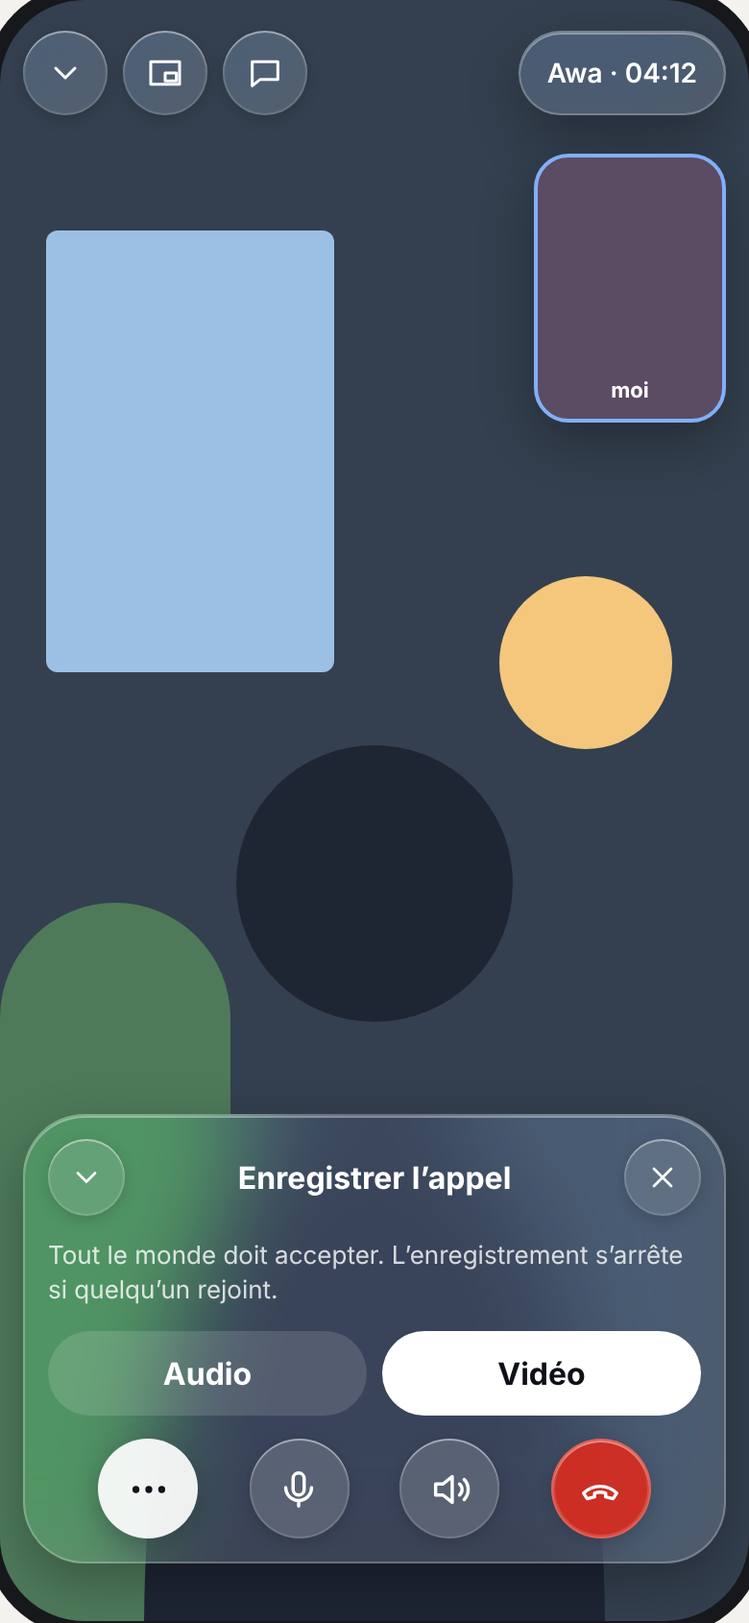
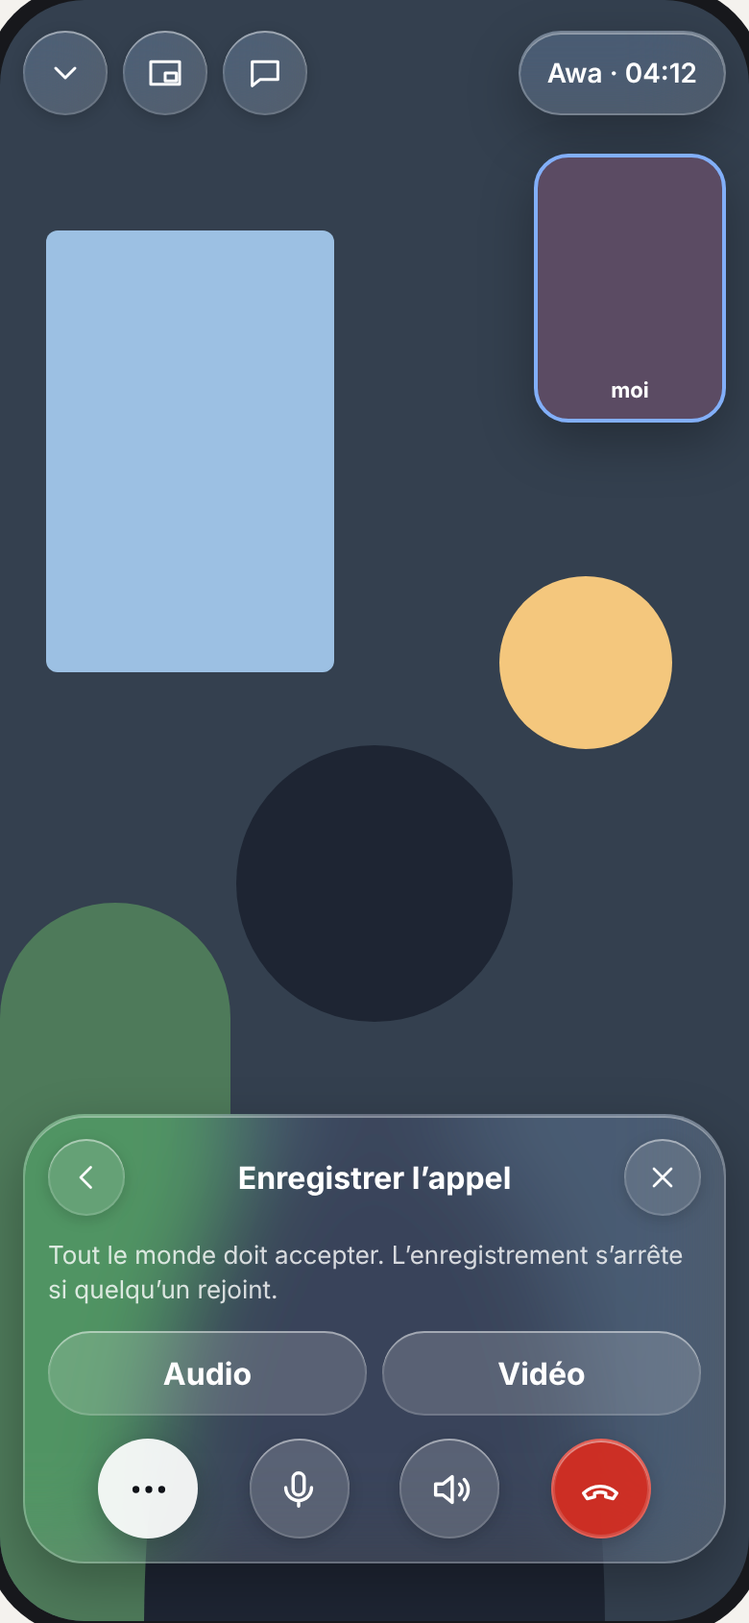
docs(appels): la planche écrit les décisions de la famille 2 (G1–G4, P8b)
- G3 : Retour porte le chevron ‹ de P8/P8b, titre « Enregistrer l'appel »
  au centre, deux puces égales Audio · Vidéo qui lancent la demande ;
  loi 14 : Retour rend le menu, Fermer et (…) rendent la pilule de base.
- P8b : sous-titres dans un verre sans rangée au-dessus du panneau, bandeau
  d'Awa comme en P8 ; lois 14 et 17 : panneau en verre séparé, barre qui
  perd ses puces et se resserre, fondu + montée ≈ 200 ms, Reduce Motion ⇒
  fondu, retoucher Réglages rend looks et puces.
- G1/G2 (loi 11) : un seul verre se resserre, le cycle rend l'état d'avant,
  le journal se range avec la pilule, la colonne W1 reste.
- G4 (loi 4) : anneau et halo à la couleur de la personne seulement à la
  parole, aucun anneau au repos.
- Loi 14 : « Participants » devient « Ajouter » (feuille des personnes).
- Tableau des plateformes : lignes de la famille 2 relevées le 2026-11-11 ;
  PR du chantier #17329 marquées « prête » corrigées en « fusionné ».

Refs #17329

Claude-Session: https://claude.ai/code/session_015SWXf7WvNYyQX5o6rHgc69

Changed region(s): [[0.4923, 0.8, 0.9538, 0.8923], [0.0923, 0.7077, 0.1231, 0.7385]]

diff --git a/docs/product/appels-vue-finale/planche.html b/docs/product/appels-vue-finale/planche.html
@@ -140,7 +140,7 @@ const S=[
 {id:'P6',t:'Journal pendant l’appel',d:'« Journal » ouvre TOUT l’appel, rien de tronqué : qui (sa couleur), quand, la phrase servie, l’original sous la phrase qu’on touche, dans le même ordre que la bande. Il s’ouvre DANS la pilule, à la place des sous-titres, et défile librement ; « Revenir au direct » quand on a remonté. La bascule Traduit · Original de sa tête fait passer TOUT le journal dans l’autre texte ; la bande des sous-titres reste dans ma langue. Ma vignette garde sa place en haut à droite.',html:phone(scene()+head('Awa · 04:12')+self()+journalPill(J,{live:true}))},
 {id:'P7',t:'Micro coupé',d:'Le micro barré passe en disque blanc. Micro coupé = ma parole n’est plus transcrite (#8475).',html:phone(scene()+head('Awa · 04:12')+self()+pill({micOff:true}))},
 {id:'P8',t:'Effets de ma caméra',d:'« Effets » emprunte au composer (#17406). MA caméra passe en plein écran, les autres en bandeau. Les sous-titres restent, au-dessus des looks, dans un verre sans la rangée de base (loi 11). Les looks (filtres, cadres, effets) se choisissent en surimpression sur l’image : la case au centre est choisie, à pleine taille, les voisines plus petites. La barre du bas grandit par morphisme et porte les puces qui trient les looks (Tout · Filtres · Cadres · Visage · Paysage · Voix…) : elles défilent à l’horizontale sans coupure, en s’effaçant toujours en fondu à gauche comme à droite (#17409). Le look choisi s’applique tout de suite : il n’y a pas de « Valider ». La rangée de base parle la langue du composer : ‹ revient à l’appel, Réglages (l’engrenage, légendé, distinct du glyphe d’Effets) ouvre P8b, et (+) ajoute un look par-dessus le précédent pour les cumuler. Un mode libère l’écran : l’en-tête se masque (#8578).',html:phone(`<div style="position:absolute;inset:0;background:#445B4F"></div><svg style="position:absolute;left:75px;top:260px" width="240" height="600" viewBox="0 0 240 600" aria-hidden="true"><circle cx="120" cy="110" r="72" fill="#2c3b33"/><path d="M0 600c0-200 50-330 120-330s120 130 120 330z" fill="#2c3b33"/></svg>`+`<div style="position:absolute;right:12px;top:76px;display:flex;flex-direction:column;gap:6px"><div class="tile" style="width:64px;height:86px;padding:4px;background:#6B5A48;border-color:var(--awa)"><span class="name glass" style="font-size:10px;padding:2px 6px">Awa</span></div></div><div style="position:absolute;left:0;right:0;bottom:176px;display:flex;justify-content:center;align-items:center;gap:12px">${['Aucun','Doré','Lissage','Polaroid','Ange'].map((n,i)=>`<div style="display:flex;flex-direction:column;align-items:center;gap:6px;transform:scale(${i===2?1:.78});opacity:${i===2?1:.6}"><span style="width:64px;height:64px;border-radius:${i===3?'12px':'50%'};background:${['#445B4F','#b89a5a','#7a8f84','#e9e4d8','#c9b37a'][i]};${i===2?'box-shadow:0 0 0 3px #fff;':''}"></span><span style="font-size:11px;font-weight:600">${n}</span></div>`).join('')}</div><div class="glass" style="position:absolute;left:12px;right:12px;bottom:30px;border-radius:32px;padding:10px 8px 8px;display:flex;flex-direction:column;gap:8px"><div role="group" aria-label="Trier les looks" style="overflow:hidden;-webkit-mask-image:linear-gradient(90deg,transparent 0,#000 34px,#000 calc(100% - 34px),transparent 100%);mask-image:linear-gradient(90deg,transparent 0,#000 34px,#000 calc(100% - 34px),transparent 100%)"><div style="display:flex;gap:6px;width:max-content;transform:translateX(-46px)">${['Tout','Filtres','Cadres','Visage','Paysage','Voix','Ambiances'].map((n,i)=>`<span style="height:32px;padding:0 13px;border-radius:16px;font-size:12px;font-weight:700;display:flex;align-items:center;flex-shrink:0;${i===1?'background:#fff;color:#0E1117':'background:rgba(255,255,255,.16);box-shadow:inset 0 0 0 1px rgba(255,255,255,.14)'}">${n}</span>`).join('')}</div></div><div style="height:1px;background:rgba(255,255,255,.18)"></div>${effectsRow(false)}</div>`+caps([T('awa','Ce filtre te va bien, garde-le !',{tag:'EN → FR'})],{left:12,right:12,bottom:286,bare:true}))},
-{id:'P8b',t:'Effets : réglages',d:'« Réglages » remplace la bande de looks par Luminosité et Flou du fond ; son engrenage passe en disque blanc, ‹ et (+) restent.',html:phone(`<div style="position:absolute;inset:0;background:#445B4F"></div><svg style="position:absolute;left:75px;top:260px" width="240" height="600" viewBox="0 0 240 600" aria-hidden="true"><circle cx="120" cy="110" r="72" fill="#2c3b33"/><path d="M0 600c0-200 50-330 120-330s120 130 120 330z" fill="#2c3b33"/></svg>`+`<div class="glass deep" style="position:absolute;left:16px;right:16px;bottom:118px;border-radius:24px;padding:14px 16px;display:flex;flex-direction:column;gap:14px"><label style="display:flex;flex-direction:column;gap:8px;font-size:13px;font-weight:600">Luminosité<span style="height:6px;border-radius:3px;background:linear-gradient(90deg,#fff 62%,rgba(255,255,255,.25) 62%)"></span></label><label style="display:flex;justify-content:space-between;align-items:center;font-size:13px;font-weight:600">Flou du fond<span style="width:50px;height:30px;border-radius:15px;background:#34C759;position:relative"><i style="position:absolute;right:3px;top:3px;width:24px;height:24px;border-radius:50%;background:#fff"></i></span></label></div><div class="glass" style="position:absolute;left:16px;right:16px;bottom:30px;border-radius:32px;padding:6px 8px">${effectsRow(true)}</div>`)},
+{id:'P8b',t:'Effets : réglages',d:'« Réglages » pose, à la place de la bande de looks, un verre séparé Luminosité · Flou du fond au-dessus de la barre. La barre perd ses puces et se resserre par morphisme sur ‹ · Réglages · (+), l’engrenage en disque blanc. Looks et puces partent en fondu pendant que le panneau monte depuis la barre (≈ 200 ms) ; Réduire les animations ⇒ fondu seul. Retoucher Réglages rend looks et puces par le chemin inverse. Les sous-titres restent au-dessus, dans un verre sans rangée (loi 11), et le bandeau des autres comme en P8.',html:phone(`<div style="position:absolute;inset:0;background:#445B4F"></div><svg style="position:absolute;left:75px;top:260px" width="240" height="600" viewBox="0 0 240 600" aria-hidden="true"><circle cx="120" cy="110" r="72" fill="#2c3b33"/><path d="M0 600c0-200 50-330 120-330s120 130 120 330z" fill="#2c3b33"/></svg>`+`<div style="position:absolute;right:12px;top:76px;display:flex;flex-direction:column;gap:6px"><div class="tile" style="width:64px;height:86px;padding:4px;background:#6B5A48;border-color:var(--awa)"><span class="name glass" style="font-size:10px;padding:2px 6px">Awa</span></div></div>`+`<div class="glass deep" role="group" aria-label="Réglages de mon image" style="position:absolute;left:16px;right:16px;bottom:118px;border-radius:24px;padding:14px 16px;display:flex;flex-direction:column;gap:14px"><label style="display:flex;flex-direction:column;gap:8px;font-size:13px;font-weight:600">Luminosité<span style="height:6px;border-radius:3px;background:linear-gradient(90deg,#fff 62%,rgba(255,255,255,.25) 62%)"></span></label><label style="display:flex;justify-content:space-between;align-items:center;font-size:13px;font-weight:600">Flou du fond<span style="width:50px;height:30px;border-radius:15px;background:#34C759;position:relative"><i style="position:absolute;right:3px;top:3px;width:24px;height:24px;border-radius:50%;background:#fff"></i></span></label></div><div class="glass" style="position:absolute;left:16px;right:16px;bottom:30px;border-radius:32px;padding:6px 8px">${effectsRow(true)}</div>`+caps([T('awa','Ce filtre te va bien, garde-le !',{tag:'EN → FR'})],{left:12,right:12,bottom:252,bare:true}))},
 ]},
 {h:'Duo audio, portrait',lead:'Sans vidéo, la personne au centre ; mêmes rails, même pilule. « Caméra » dans le rail gauche bascule l’appel en vidéo.',b:[
 {id:'P9',t:'Audio, repos',d:'Avatar, nom, durée au centre ; l’en-tête ne porte à droite que l’indicateur réseau, et seulement s’il se dégrade. L’anneau de l’avatar prend la couleur de la personne quand elle parle.',html:phone(head('')+`<div class="person" style="left:0;right:0;top:220px"><span class="av" style="width:132px;height:132px;background:#B45309;font-size:40px;box-shadow:0 0 0 4px var(--awa),0 0 30px var(--awa)">AD</span><b style="font-size:22px">Awa Diallo</b><span style="color:rgba(255,255,255,.75)">En train de parler</span></div>`+pill(),'#1B2130')},
@@ -157,10 +157,10 @@ const S=[
 {id:'P16',t:'Je partage mon écran',d:'Un bandeau de verre rouge pâle dit « Vous partagez votre écran » avec Arrêter ; le reste ne change pas.',html:phone(scene()+head('Awa · 04:12')+`<div class="glass" style="position:absolute;left:12px;right:12px;top:72px;height:52px;border-radius:26px;display:flex;align-items:center;justify-content:space-between;padding:0 6px 0 16px;background:rgba(217,45,32,.35)"><span style="font-size:14px;font-weight:600;display:flex;gap:8px;align-items:center">${ic('screen',16,'#fff')}Vous partagez votre écran</span><span style="height:40px;padding:0 14px;border-radius:20px;background:#fff;color:#B42318;font-size:13px;font-weight:700;display:flex;align-items:center">Arrêter</span></div>`+self({top:136})+pill())}
 ]},
 {h:'Gestes et contrôles',lead:'Un toucher n’importe où sur l’image cache les contrôles ET réduit ma vignette ; un autre toucher fait revenir partout les contrôles et rend ma vignette à sa taille. Pas de minuterie. Les sous-titres et une demande d’accord ne se cachent jamais.',b:[
-{id:'G1',t:'Un toucher : tout se range',d:'En-tête, pilule et rails disparaissent ; ma vignette passe à sa petite taille ; seuls restent l’image et les sous-titres, dans un verre sans la rangée de la pilule.',html:phone(scene()+self({w:72,h:100,top:60})+caps([T('awa','Tu m’entends bien ?',{tag:'EN → FR'})],{bottom:30,bare:true}))},
-{id:'G2',t:'Un autre toucher : tout revient',d:'Les contrôles reviennent partout, ma vignette reprend sa taille. Un bouton touché pendant le fondu répond quand même. Actions ouvertes : les sous-titres se rangent.',html:phone(scene()+head('Awa · 04:12')+self()+rails({caps:true})+pill({open:true}))},
-{id:'G3',t:'Options en surimpression',d:'Une option à réglages (Enregistrer, Réagir) s’ouvre DANS la pilule, qui grandit vers le haut avec ‹ Retour et Fermer ; « Participants » s’ouvre en feuille.',html:phone(scene()+head('Awa · 04:12')+self()+`<div class="glass" style="position:absolute;left:12px;right:12px;bottom:30px;border-radius:32px;padding:12px;display:flex;flex-direction:column;gap:12px"><div style="display:flex;justify-content:space-between;align-items:center">${B('down','Retour','soft',40)}<b>Enregistrer l’appel</b>${B('end','Fermer','soft',40).replace(P.end,'M6 6l12 12M18 6L6 18')}</div><p style="margin:0;font-size:13px;color:rgba(255,255,255,.8)">Tout le monde doit accepter. L’enregistrement s’arrête si quelqu’un rejoint.</p><div style="display:flex;gap:8px"><span style="flex:1;height:44px;border-radius:22px;background:rgba(255,255,255,.14);display:flex;align-items:center;justify-content:center;font-weight:700">Audio</span><span style="flex:1;height:44px;border-radius:22px;background:#fff;color:#0E1117;display:flex;align-items:center;justify-content:center;font-weight:700">Vidéo</span></div><div style="display:flex;justify-content:space-evenly">${pillBtns(true)}</div></div>`)},
-{id:'G4',t:'Caméra coupée',d:'Fond noir, avatar, « Caméra désactivée ». Allumer ma caméra en audio bascule l’appel en vidéo, sans demande.',html:phone(head('Awa · 04:12')+`<div class="person" style="left:0;right:0;top:260px"><span class="av" style="width:96px;height:96px;background:#B45309;font-size:30px;box-shadow:0 0 0 3px var(--awa)">AD</span><span style="display:flex;gap:6px;align-items:center;color:rgba(255,255,255,.8)">${ic('video',16,'#fff')}Caméra désactivée</span></div>`+self()+pill(),'#000')}
+{id:'G1',t:'Un toucher : tout se range',d:'En-tête, pilule et rails sortent vers leurs bords ; ma vignette passe à sa petite taille ; seuls restent l’image et les sous-titres, dans le MÊME verre, qui se resserre en perdant la rangée de la pilule : il n’y a jamais de second verre. Un journal ouvert se range avec la pilule.',html:phone(scene()+self({w:72,h:100,top:60})+caps([T('awa','Tu m’entends bien ?',{tag:'EN → FR'})],{bottom:30,bare:true}))},
+{id:'G2',t:'Un autre toucher : tout revient',d:'Les contrôles reviennent partout, par le chemin inverse, dans l’état d’avant : ici (…) était ouvert, il revient ouvert, et les sous-titres qu’il rangeait restent rangés. Ma vignette reprend sa taille. Un bouton touché pendant le fondu répond quand même.',html:phone(scene()+head('Awa · 04:12')+self()+rails({caps:true})+pill({open:true}))},
+{id:'G3',t:'Options en surimpression',d:'Une option à réglages (Enregistrer, Réagir) s’ouvre DANS la pilule, qui grandit vers le haut avec ‹ Retour et Fermer. ‹ Retour rend le menu (les actions de (…) ouvertes) ; Fermer, comme (…) touché pendant l’option, rend la pilule de base. Audio et Vidéo sont deux puces égales qui lancent aussitôt la demande d’accord (R2) et referment l’option : pas de bouton de lancement. « Ajouter » ouvre la feuille des personnes.',html:phone(scene()+head('Awa · 04:12')+self()+`<div class="glass" style="position:absolute;left:12px;right:12px;bottom:30px;border-radius:32px;padding:12px;display:flex;flex-direction:column;gap:12px"><div style="display:flex;justify-content:space-between;align-items:center">${B('down','Retour','soft',40).replace(P.down,'M15 5l-7 7 7 7')}<b>Enregistrer l’appel</b>${B('end','Fermer','soft',40).replace(P.end,'M6 6l12 12M18 6L6 18')}</div><p style="margin:0;font-size:13px;color:rgba(255,255,255,.8)">Tout le monde doit accepter. L’enregistrement s’arrête si quelqu’un rejoint.</p><div style="display:flex;gap:8px">${['Audio','Vidéo'].map(c=>`<button type="button" style="flex:1;height:44px;border:0;border-radius:22px;background:rgba(255,255,255,.16);box-shadow:inset 0 1px 0 rgba(255,255,255,.36),inset 0 0 0 1px rgba(255,255,255,.14);color:#fff;font:inherit;display:flex;align-items:center;justify-content:center;font-weight:700">${c}</button>`).join('')}</div><div style="display:flex;justify-content:space-evenly">${pillBtns(true)}</div></div>`)},
+{id:'G4',t:'Caméra coupée',d:'Fond noir, avatar à la couleur de la personne, « Caméra désactivée ». Au repos, aucun anneau : l’anneau et le halo de sa couleur n’apparaissent que quand elle parle (loi 4, P9). L’image cède la place à l’avatar, et revient, en fondu. Allumer ma caméra en audio bascule l’appel en vidéo, sans demande.',html:phone(head('Awa · 04:12')+`<div class="person" style="left:0;right:0;top:260px"><span class="av" style="width:96px;height:96px;background:#B45309;font-size:30px">AD</span><span style="display:flex;gap:6px;align-items:center;color:rgba(255,255,255,.8)">${ic('video',16,'#fff')}Caméra désactivée</span></div>`+self()+pill(),'#000')}
 ]},
 {h:'À la une',lead:'Toucher une vignette la met à la une (choix local, jamais imposé aux autres). Un écran partagé monte seul, sauf choix manuel. La vignette à la une n’a pas de badge : une capsule de verre en haut à droite offre Revenir à la grille et Plein écran.',b:[
 {id:'U1',t:'Une personne à la une, portrait',d:'Grande vignette, bandeau des autres en bas (84 × 112).',html:phone(`<div class="tile" style="position:absolute;left:8px;right:8px;top:8px;bottom:250px;background:#3E5A74;border-color:var(--karim)"><span class="name glass">Karim</span></div><div class="glass" style="position:absolute;right:16px;top:70px;border-radius:22px;padding:4px;display:flex;gap:4px">${B('pip','Revenir à la grille','',40).replace(P.pip,'M4 4h7v7H4zM13 4h7v7h-7zM4 13h7v7H4zM13 13h7v7h-7z')}${B('expand','Plein écran','',40)}</div>`+head('Équipe · 4 · 12:40')+`<div style="position:absolute;left:8px;bottom:120px;display:flex;gap:6px">${['awa','lina','moi'].map(w=>`<div class="tile" style="width:84px;height:112px;padding:4px;background:#444;border-color:${C[w]}"><span class="name glass" style="font-size:10px;padding:2px 6px">${w}</span></div>`).join('')}</div>`+pill(),'#0E1117')},

diff --git a/docs/product/appels-vue-finale.md b/docs/product/appels-vue-finale.md
@@ -26,7 +26,7 @@
    - La graine est `authorAccentColor(userId, name)` (`@meeshy/shared`). Ses miroirs sont `DynamicColorGenerator.colorForName(userId)` sur iOS et `CallSpeakerColor` sur Android. L'identifiant prime sur le nom, et il n'y a jamais de seconde palette.
    - Cette couleur teinte :
      - le liseré de la vignette, **la mienne comprise** ;
-     - l'anneau de qui parle ;
+     - l'anneau de qui parle, avec son halo : il n'apparaît QU'À LA PAROLE, et rien ne l'annonce au repos (pas d'anneau permanent). Il en va de même quand sa caméra est coupée et que son avatar prend la place de l'image (G4, P9 ; famille 2, 2026-11-11) ;
      - **le pseudo, toujours** ;
      - **la phrase, SEULEMENT quand elle sert une traduction**.
    - Une phrase originale reste à l'encre du thème (blanc sur le verre d'appel, noir ou blanc dans le fil selon le thème) :
@@ -66,7 +66,11 @@
     - Le premier toucher cache l'en-tête, la pilule, les rails et les bandeaux, et ma vignette passe à sa petite taille.
     - Le second toucher fait revenir les contrôles partout, et ma vignette reprend la taille que j'avais choisie.
     - Il n'y a pas de minuterie. Un bouton touché pendant le fondu répond quand même.
-    - Les sous-titres et une carte d'accord (enregistrement, cadre) ne se cachent jamais : quand la pilule se range, les sous-titres restent dans un verre sans sa rangée de base (G1). Il en va de même en mode Effets : les sous-titres restent dans ce verre sans rangée, posé au-dessus des looks (P8).
+    - Les sous-titres et une carte d'accord (enregistrement, cadre) ne se cachent jamais : quand la pilule se range, les sous-titres restent dans un verre sans sa rangée de base (G1). Il en va de même en mode Effets : les sous-titres restent dans ce verre sans rangée, posé au-dessus des looks (P8) ou du panneau de réglages (P8b).
+    - **Un SEUL verre se resserre** (famille 2, 2026-11-11) : au premier toucher, le verre qui portait les sous-titres au-dessus de la rangée perd sa rangée par morphisme (loi 17) et reste le même verre ; il n'y a jamais de second verre posé pour les sous-titres rangés, sur aucune plateforme. En-tête, rails et pilule sortent vers leurs bords, et reviennent par le chemin inverse.
+    - **Le cycle G1 → G2 rend l'état d'avant** : si (…) était ouvert, il revient ouvert ; les sous-titres que (…) rangeait restent rangés ; ce qui était fermé reste fermé.
+    - **Un journal ouvert dans la pilule se range avec elle** au premier toucher et revient avec elle au second. Sur grand écran, la colonne du journal (W1) reste : elle ne masque rien (décision porteur).
+    - Contrôles cachés, toucher ma vignette rend d'abord les contrôles, comme toucher l'image.
 12. **Lancer un partage d'écran RÉDUIT l'appel** (#16664).
     - Je quitte Meeshy pour montrer autre chose, et l'appel me suit en capsule : icône d'écran, nom · durée, « Arrêter ».
     - Toucher la capsule rouvre l'appel ; le bandeau « Vous partagez votre écran · Arrêter » y reste sous l'en-tête.
@@ -78,8 +82,12 @@
     - **Contrat (#16665), rétrocompatible.** `call:screen-capture-detected` porte un `kind` optionnel, `recording` (enregistrement d'écran, `isCapturing` vrai puis faux) ou `screenshot` (capture ponctuelle, `isCapturing` vrai seul). Un `kind` absent se lit `recording`, ce qu'envoient les clients d'avant. La passerelle relaie `kind` dans `call:screen-capture-alert`. Elle persiste chaque DÉBUT (`isCapturing` vrai) dans `CallCaptureEvent` (`callSessionId`, `participantId`, `userId?`, `kind`, `offsetMs`, `createdAt`), au plus une ligne par participant, par sorte et par fenêtre de 5 s. L'enregistrement CONSENTI de l'appel (`call:recording-started` / `call:recording-stopped`, aucun fil client nouveau) s'y écrit aussi, par la passerelle là où elle diffuse ces deux événements : `kind` vaut `call-recording-started` (au nom de l'enregistreur) ou `call-recording-stopped` (seulement s'il avait commencé ; `participantId` et `userId` nuls quand personne ne l'a demandé : fin d'appel, délai, arrivée). `GET /calls/:callId/transcript` ajoute `captures: [{ id, participantId, userId, displayName, kind, offsetMs, at }]` à côté de `segments` (les trois champs d'auteur peuvent être nuls pour un arrêt d'enregistrement ; une sorte inconnue s'ignore). Les clients insèrent ces lignes à leur heure, dans le journal vivant comme dans celui d'après l'appel : « Awa a capturé l'écran » ou « Awa enregistre l'écran », « L'enregistrement de l'appel a commencé » ou « L'enregistrement de l'appel s'est arrêté », en encre secondaire, sans couleur d'auteur sur la phrase (le pseudo garde la sienne).
 14. **Options en surimpression.**
     - Une option à réglages (Enregistrer, Réagir) s'ouvre DANS la pilule, par morphisme : la même barre s'allonge et grandit pour la contenir, avec ‹ Retour et Fermer, puis reprend sa forme (loi 17). C'est la même barre agrandie qui porte les sous-titres et le journal.
-    - « Participants » s'ouvre en feuille ; « Journal » s'ouvre dans la pilule (loi 7).
-    - Effets est un mode plein écran qui parle la langue du composer (directive porteur du 2026-11-10, #17409) : ‹ · Réglages · (+). Réglages porte un engrenage et sa légende « Réglages », pour ne pas se confondre avec le glyphe d'Effets ; il ouvre P8b, où il passe en disque blanc. Le look touché s'applique tout de suite, sans « Valider » ; ‹ revient à l'appel ; (+) ajoute un look par-dessus le précédent, pour les cumuler ; « Aucun » rend mon image d'origine. Le choix se fait dans les looks du composer (loi 9).
+    - **Retour, Fermer et (…) pendant une option** (famille 2, 2026-11-11 ; G3) : « ‹ Retour » rend le MENU, les actions de (…) ouvertes et leurs rails revenus ; « Fermer » rend la pilule de base, tout rangé ; (…) touché pendant l'option la referme comme Fermer. Le glyphe de Retour est le chevron ‹, celui de P8 et P8b, jamais le chevron vers le bas de Réduire.
+    - **Enregistrer** : le titre « Enregistrer l'appel » au centre, la phrase « Tout le monde doit accepter », puis deux puces larges et ÉGALES, Audio et Vidéo, dans le verre de l'appel. Toucher l'une lance aussitôt la demande d'accord (R2) et referme l'option : il n'y a ni bouton de lancement, ni choix à confirmer, ni puce mise en avant.
+    - « Ajouter » (la liste « l'appel », loi 2) ouvre la feuille des personnes ; « Journal » s'ouvre dans la pilule (loi 7).
+    - Effets est un mode plein écran qui parle la langue du composer (directive porteur du 2026-11-10, #17409) : ‹ · Réglages · (+). Réglages porte un engrenage et sa légende « Réglages », pour ne pas se confondre avec le glyphe d'Effets ; il ouvre P8b, où il passe en disque blanc.
+    - **P8b, l'arrivée des réglages** (famille 2, 2026-11-11) : le panneau Luminosité · Flou du fond est un VERRE SÉPARÉ, posé au-dessus de la barre, à la place de la bande de looks. La barre perd sa rangée de puces (Filtres · Cadres · Visage…) et se resserre par morphisme sur ‹ · Réglages · (+). Les looks et les puces partent en fondu pendant que le panneau monte depuis la barre en fondu, en ≈ 200 ms (transformation et opacité) ; « Réduire les animations » ne garde que le fondu. Retoucher « Réglages » rend la bande de looks et ses puces par le chemin inverse. Les sous-titres restent au-dessus de tout, dans un verre sans rangée (loi 11), et le bandeau des autres reste comme en P8.
+    - Le look touché s'applique tout de suite, sans « Valider » ; ‹ revient à l'appel ; (+) ajoute un look par-dessus le précédent, pour les cumuler ; « Aucun » rend mon image d'origine. Le choix se fait dans les looks du composer (loi 9).
     - Montage garde Quitter · Réglages · Valider tant que le porteur ne l'a pas aligné ; « Quitter » rend mon image d'avant. Un mode libère l'écran : l'en-tête se masque (#8578, confirmé par le porteur le 2026-11-09, #17344).
 15. **À la une.**
     - Toucher une vignette la met à la une, choix local jamais imposé. Si les contrôles sont cachés, le toucher les rend d'abord.
@@ -96,6 +104,7 @@
     - Ce qui s'ouvre depuis la barre du bas (options, sous-titres, journal, rangées d'actions en groupe) s'ouvre par morphisme : la barre s'allonge et grandit, puis reprend sa forme.
     - Une rangée qui défile (puces, bandeau de vignettes) n'est jamais coupée net : elle s'efface en fondu à ses deux bords (#17409).
     - Tout ce qui se pose par-dessus l'image suit la même logique. Seule exception : Effets, qui emprunte au composer (loi 9).
+    - Dans Effets, les réglages (P8b) arrivent depuis la barre : la bande de looks et les puces partent en fondu, le panneau de verre monte depuis la barre en fondu (≈ 200 ms), la barre se resserre par morphisme ; retoucher « Réglages » les rend par le chemin inverse (loi 14).
     - Le mouvement ne perd aucune image, reste interruptible (loi 11) et « Réduire les animations » le remplace par un fondu court.
 18. **Simplicité : la vue affiche ce qu'elle dessine, rien en plus** (directive porteur du 2026-11-10, #17406).
     - Aucun extra : ni libellé, ni badge, ni bouton, ni panneau d'appoint que la vue ne montre pas.
@@ -150,7 +159,7 @@
 
 ### Duo audio
 
-En audio, la personne est au centre et son anneau prend sa couleur quand elle parle. « Caméra » (rail gauche) bascule l'appel en vidéo.
+En audio, la personne est au centre et son anneau prend sa couleur, avec son halo, quand elle parle ; au repos, aucun anneau. « Caméra » (rail gauche) bascule l'appel en vidéo.
 
 | P9 · Audio, repos | P10 · Audio, actions et sous-titres |
 |---|---|
@@ -206,23 +215,29 @@ Sur un écran large, la scène reste centrée et le journal se pose en colonne d
 
 ## Où en est chaque plateforme (relevé du 2026-11-08, branche `claude/calls-end-to-end-cvakev` fusionnée avec `dev` ; complété le 2026-11-11)
 
-Ce tableau est un compte rendu daté. Les lignes du chantier #17329 (Liquid Glass et rails, #17340 à #17343, mode Effets) sont relevées le 2026-11-11 par `gh api` sur ses issues et ses PR, `dev` à `fe780f4b1a` et verrouillé : « prête » veut dire PR ouverte, CI de PR verte, fusion en attente du déverrouillage ; la preuve iOS et Android complète se refait sur `dev` après fusion. Les autres lignes restent celles du 2026-11-08. L'état vivant est dans les issues du milestone « Appels de groupe et appels traduits ». « Livré dans le code » sur iOS et Android veut dire relu et gardé localement, mais pas encore compilé : la preuve est la CI `ios.yml` / `android.yml` de la PR, puis une capture au simulateur ou depuis l'artefact `assembleDebug`.
+Ce tableau est un compte rendu daté. Les lignes du chantier #17329 (Liquid Glass et rails, #17340 à #17343, mode Effets) ont été relevées le 2026-11-11 par `gh api` sur ses issues et ses PR, `dev` à `fe780f4b1a` et verrouillé ; `dev` déverrouillé, elles sont remises à jour le même jour : toutes ces PR sont fusionnées. Les lignes de la famille 2 (G1–G4, P8b) sont relevées le 2026-11-11 par `gh api`, `dev` à `e85d0efca6`. La preuve iOS et Android complète se fait sur `dev` après fusion (CI de poussée de `ios.yml`, `sdk-tests.yml` et `android.yml`). Les autres lignes restent celles du 2026-11-08. L'état vivant est dans les issues du milestone « Appels de groupe et appels traduits ». « Livré dans le code » sur iOS et Android veut dire relu et gardé localement, mais pas encore compilé : la preuve est la CI `ios.yml` / `android.yml` de la PR, puis une capture au simulateur ou depuis l'artefact `assembleDebug`.
 
 | Loi / vue | Web | iOS | Android natif |
 |---|---|---|---|
 | Pilule, rails, groupe (lois 1–3) | livré | livré ; le verre qui s'assombrit sur un écran reçu (loi 3) reste à porter, #16972 ; reliquats de mise en page dans `apps/ios/tasks/routine-appels.md` | livré dans le code, verre de la loi 3 compris (#16952) ; à vérifier sur capture |
 | Boutons en Liquid Glass (loi 1, #17323) et rails en duo (loi 2, #17327) | fusionné : verre par bouton #17419 (#17418), rails #17445 (#17429), libellés #17470 (#17462) ; rendu à rejouer, #17423 et #17455 | fusionné : Liquid Glass #17403, rails #17431, libellés #17428 (#17417) ; rendu à rejouer, #17422, #17438, #17439 | fusionné : verre #17420, rails #17446, libellés #17472 (#17461) ; rendu à rejouer, #17421 et #17450 |
-| Capsule de l'en-tête : nom donné · durée, réseau seulement dégradé (loi 1, #17341) | fusionné, #17504 (#17499 fermée) | PR #17493 prête (#17491 ouverte) | fusionné, #17501 (#17498 fermée) |
-| Sous-titres et journal DANS la pilule, (…) les range (lois 5–7, #17343) | fusionné, #17486 (#17479) ; phrases et pied Langue · Journal, #17503 (#17496) | fusionné, #17502 (#17456) ; phrases et pied, PR #17494 prête (#17492) ; taille de l'avatar en audio journal ouvert, #17529 | fusionné, #17484 (#17478) ; phrases et pied, #17500 (#17495) |
-| Le journal garde tout l'appel, sous-titres allumés ou non (loi 7, #17342) | gardé avant la décision (constat de #17342) ; heure dans l'appel et ordre, PR #17519 prête (#17517) | PR #17513 prête (#17510) | PR #17518 prête (#17516), le témoin qui jetait ces phrases y est retourné |
-| Original au toucher pendant l'appel, bascule Traduit · Original sur tout le journal (lois 6, 7, #17340) | original seulement sous la phrase touchée, PR #17519 prête (#17517) ; bascule dans la tête du journal (#16942) | PR #17513 prête (#17510) | PR #17518 prête (#17516) |
-| Mode Effets : sous-titres gardés au-dessus des looks, Réglages à l'engrenage légendé (lois 9, 11, 14 ; P8) | PR #17525 prête (#17524) ; engrenage de Réglages non relevé | P8 conforme à l'audit du 2026-11-11 (10/10, glyphe d'Effets alors dessiné sur Réglages) ; engrenage à porter | PR #17512 prête (#17511, sous-titres gardés) ; engrenage non relevé |
+| Capsule de l'en-tête : nom donné · durée, réseau seulement dégradé (loi 1, #17341) | fusionné, #17504 (#17499 fermée) | fusionné, #17493 (#17491 fermée) | fusionné, #17501 (#17498 fermée) |
+| Sous-titres et journal DANS la pilule, (…) les range (lois 5–7, #17343) | fusionné, #17486 (#17479) ; phrases et pied Langue · Journal, #17503 (#17496) | fusionné, #17502 (#17456) ; phrases et pied, #17494 (#17492) ; taille de l'avatar en audio journal ouvert, #17529 | fusionné, #17484 (#17478) ; phrases et pied, #17500 (#17495) |
+| Le journal garde tout l'appel, sous-titres allumés ou non (loi 7, #17342) | gardé avant la décision (constat de #17342) ; heure dans l'appel et ordre, fusionné, #17519 (#17517) | fusionné, #17513 (#17510) | fusionné, #17518 (#17516), le témoin qui jetait ces phrases y est retourné |
+| Original au toucher pendant l'appel, bascule Traduit · Original sur tout le journal (lois 6, 7, #17340) | original seulement sous la phrase touchée, fusionné, #17519 (#17517) ; bascule dans la tête du journal (#16942) | fusionné, #17513 (#17510) | fusionné, #17518 (#17516) |
+| Mode Effets : sous-titres gardés au-dessus des looks, Réglages à l'engrenage légendé (lois 9, 11, 14 ; P8) | fusionné, #17525 (#17524) ; engrenage : ligne P8b | P8 conforme à l'audit du 2026-11-11 (10/10, glyphe d'Effets alors dessiné sur Réglages) ; engrenage : ligne P8b | fusionné, #17512 (#17511, sous-titres gardés) ; engrenage : ligne P8b |
 | Sous-titre coloré, original puis traduction (lois 4–5) | livré (#16613, #16614) | livré | livré (`CallSpeakerColor`) |
 | Ma vignette à ma couleur (loi 4) | livré, grille et coin du duo (#16635) | livré en groupe (`GroupCallStage`) ; duo : liseré de 2 pt à la couleur de qui est montré, livré dans le code (`CallSelfTileStroke`), à recouper avec #16973 | livré dans le code, duo compris, celle de l'autre après permutation (#16952) |
 | Journal pendant l'appel coloré (lois 4, 7) : **la couleur seulement** ; sa place, ce qu'il garde et l'original sont aux lignes #17342, #17343 et #17340 | couleur livrée, nom et phrase (#16634) | couleur livrée (`CallCaptionRow`) | couleur livrée (`CallCaptionRow`) |
 | Journal après l'appel coloré (lois 4, 7) | livré, `authorInk` sur le fil (#16634) | livré, `CallSpeakerColor` adaptée au schéma (#16634) | livré, `CallSpeakerColor` adaptée au schéma (#16634) ; avatars de l'historique encore teintés par le nom, #16954 |
 | Couleur : pseudo toujours, phrase seulement traduite (loi 4) | livré (#16662) | livré (#16662) | livré (#16662) |
-| Toucher : tout se range, ma vignette se réduit (loi 11) | livré (#16663) ; la colonne du journal ne s'efface pas encore au toucher | livré (#16663) | livré (#16663) |
+| Toucher : tout se range, ma vignette se réduit (loi 11) | livré (#16663) ; la colonne du journal reste au toucher, comme la loi 11 le veut désormais (W1, décision porteur) | livré (#16663) | livré (#16663) |
+| G1, G2 : un seul verre de sous-titres se resserre, le chrome sort vers ses bords et revient par le chemin inverse, ma vignette rend d'abord les contrôles (loi 11 ; famille 2, relevé du 2026-11-11) | fusionné, #17544 (#17536 fermée), avec la pilule qui se déforme à l'ouverture d'une option ; le témoin du second verre a évolué | fusionné, #17534 (#17532 fermée) | fusionné, #17543 (#17537 fermée), en groupe dès qu'une caméra est allumée ; le témoin du second verre a évolué |
+| G1 → G2 rend l'état d'avant ((…) ouvert reste ouvert, sous-titres rangés restent rangés) et le journal se range avec la pilule (loi 11) | écrit par la planche le 2026-11-11 ; non relevé séparément | non relevé séparément | non relevé séparément |
+| G3 : option Enregistrer dans la pilule, « Enregistrer l'appel » au centre, phrase d'accord, puces égales Audio · Vidéo qui lancent la demande, Retour ‹ et Fermer dans le verre de l'appel (loi 14) | fusionné, #17569 (#17568 fermée), « Ajouter » en feuille compris | fusionné, #17539 (#17538 fermée) ; Retour rend le menu, Fermer la pilule de base (`CallView+Panels.swift`) | fusionné, #17561 (#17560 fermée) |
+| G4 : caméra de l'autre coupée en duo, avatar à sa couleur, anneau et halo seulement à la parole, image ↔ avatar en fondu (lois 4, 17) | fusionné, #17570 (#17567 fermée) | fusionné, #17540 (#17535 fermée) | fusionné, #17562 (#17559 fermée) |
+| « Caméra » offerte en appel audio, qui passe l'appel en vidéo (loi 2, P10) | déjà offerte | déjà offerte | fusionné, #17533 (#17468 fermée) ; le témoin « an audio call offers no camera toggle » a évolué |
+| P8b : panneau Luminosité · Flou du fond en verre séparé au-dessus de la barre ‹ · Réglages · (+) qui se resserre, engrenage légendé (lois 14, 17) | à faire, #17580 ouverte, aucune PR au relevé | fusionné, #17553 (#17552 fermée) | fusionné, #17565 (#17564 fermée) |
 | Partage lancé ⇒ appel réduit en capsule (loi 12) | livré (#16664) | livré (#16664) | livré (#16664) ; vignette vidéo flottante de P18, #16953 |
 | Capture visible chez tous et gardée au journal (loi 13) | livré (#16709) : capsule R1, ligne datée au journal vivant, au bandeau et au journal d'après l'appel ; en disposition audio la capsule reste dans la rangée d'alertes | livré (#16709) : capsule R1 en audio comme en vidéo, ligne au journal vivant et d'après l'appel | en partie (#16709) : sorte de capture sur le fil et lignes au journal d'après l'appel ; capsule R1 en direct et détection locale, #16981 |
 | Cadres en direct (loi 16) | livré dans le code pour l'appel à deux (#16943) ; groupe, #12313 ; disparition de ma vignette en C3 à trancher, #16974 ; disposition de la barre C1, #16979 ; pas de suspension au mouvement ni à la chauffe | livré ; clés `call.liveFrame.*` sans traduction pt | le cadre tombe quand l'appel passe à trois (#16952) ; à vérifier sur capture |
